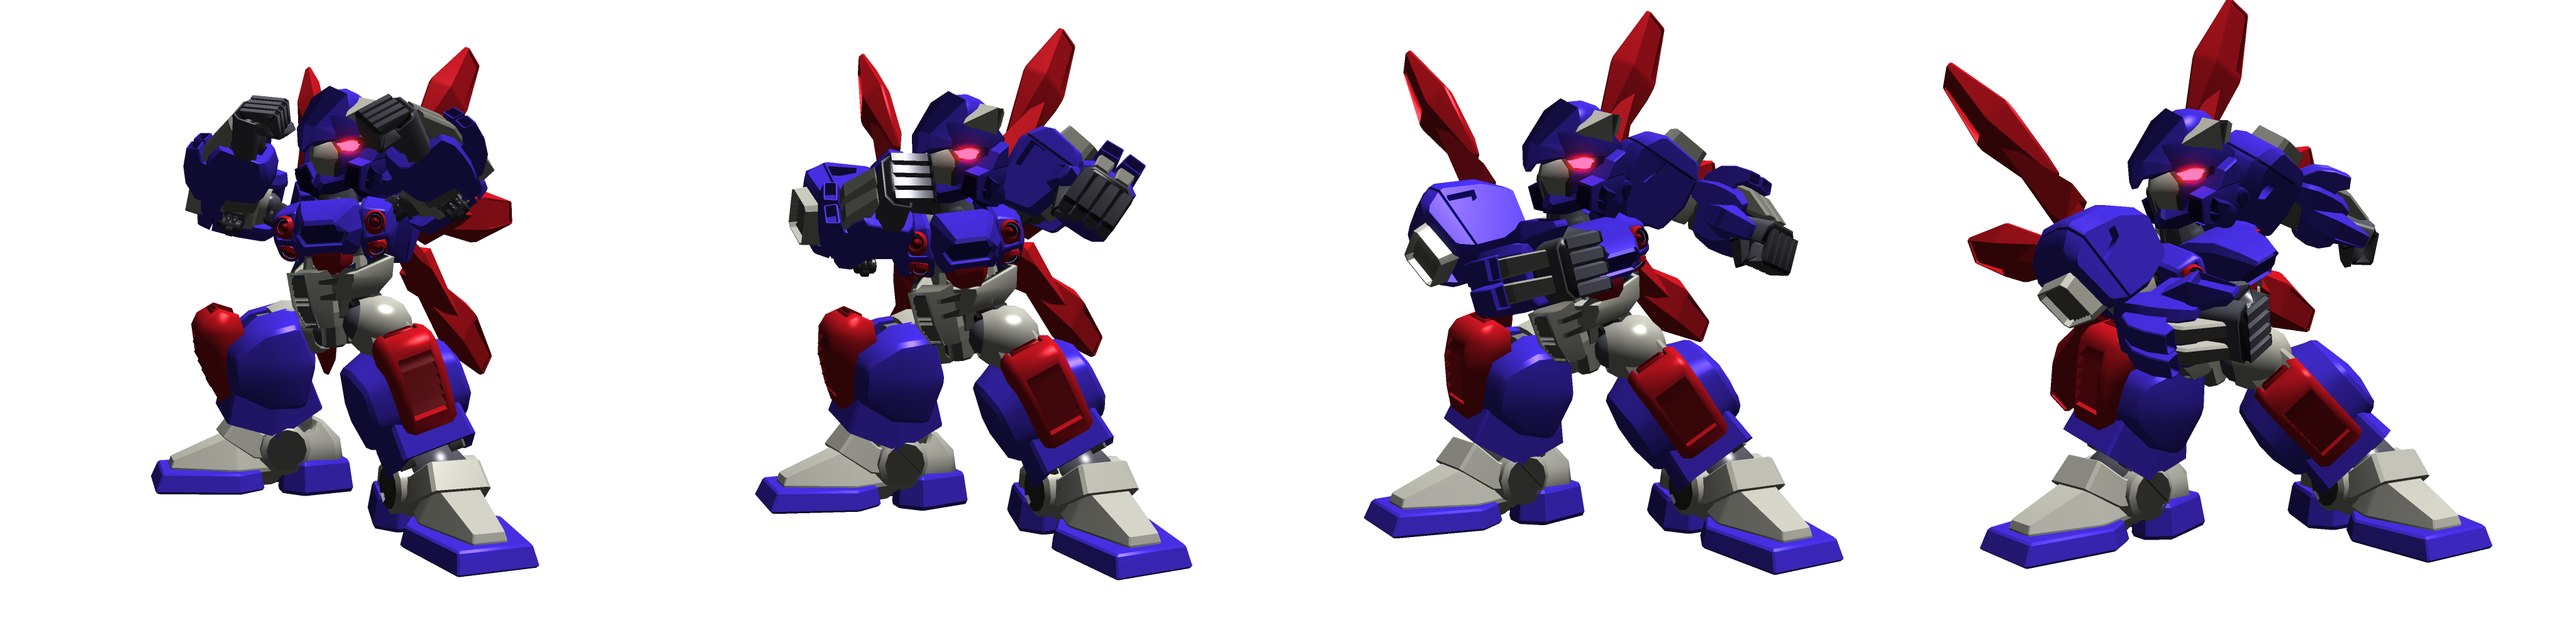
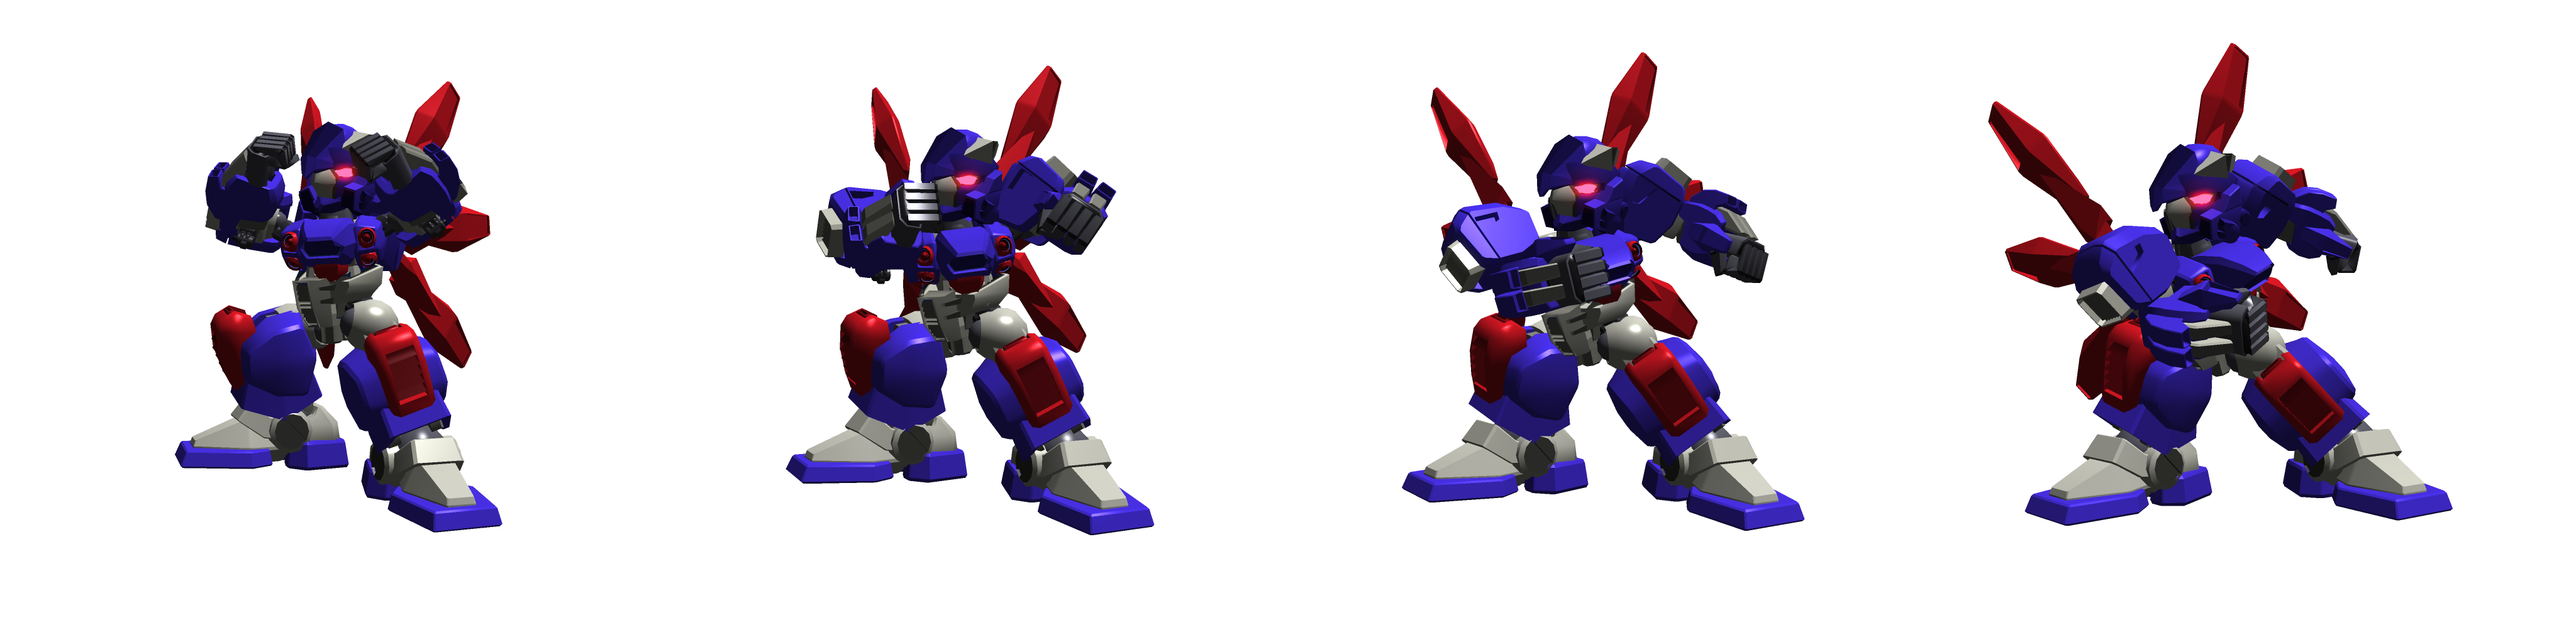
バーストカットインを調整した

diff --git a/src/js/game-object/cut-in/wing-dozer/view/player-wing-dozer-cutin-view.js b/src/js/game-object/cut-in/wing-dozer/view/player-wing-dozer-cutin-view.js
@@ -11,10 +11,10 @@ import type {PreRender} from "../../../../action/game-loop/pre-render";
 import {HUD_CUT_IN_ZNIDEX} from "../../../../zindex/hud-zindex";
 
 /** メッシュの大きさ */
-export const MESH_SIZE = 830;
+export const MESH_SIZE = 1000;
 
 /** ベースとなるpadding top */
-export const BASE_PADDING_TOP = 60;
+export const BASE_PADDING_TOP = 50;
 
 /**
  * プレイヤー側 ウィングドーザ　カットイン ビュー
